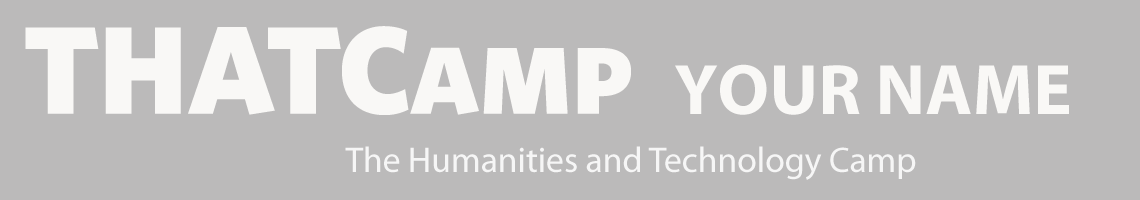
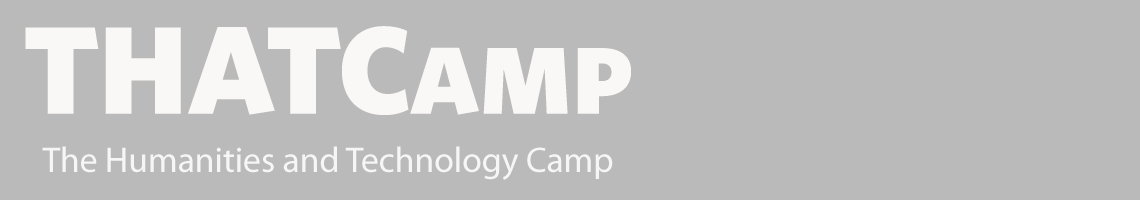
Update theme THATCamp Base for release

Changed region(s): [[0.0307, 0.72, 0.7982, 0.9], [0.5833, 0.3, 0.9518, 0.57]]

diff --git a/wp-content/themes/thatcamp-base/style.css b/wp-content/themes/thatcamp-base/style.css
@@ -3,7 +3,7 @@ Theme Name: THATCamp Base
 Theme Date: 12/06/2012
 Version: 1.0
 Theme URI: http://thatcamp.org
-Description: THATCamp Base subsite theme
+Description: THATCamp Base is a mobile-optimized theme for THATCamp subsites.
 Author: Tammie Lister
 Author URI: www.thelogicalbinary.com
 Tags: buddypress

diff --git a/wp-content/themes/thatcamp-base/functions.php b/wp-content/themes/thatcamp-base/functions.php
@@ -5,7 +5,28 @@
  * @package thatcampbase
  * @since thatcampbase 1.0
  */
+ 
+ /* thatcampbase default header */
+ 
+define('thatcamp_base_dir', get_bloginfo('stylesheet_directory'));
+define( 'HEADER_IMAGE', thatcamp_base_dir . '/assets/images/default-header.png' );
+
+function thatcamp_base_default_header() {
+
+           register_default_headers( array(
+		'thatcamp-default' => array(
+			'url' => thatcamp_base_dir . '/assets/images/default-header.png',
+			'thumbnail_url' => thatcamp_base_dir . '/assets/images/default-header-thumbnail.png',
+			/* translators: header image description */
+			'description' => __( 'THATCamp Default Header', 'thatcamp' )
+		)		
+	) );
+}
+
+add_action( 'after_setup_theme', 'thatcamp_base_default_header' );
+ 
 /* thatcampbase setup functions */
+
 if ( ! isset( $content_width ) ) {
 	$content_width = 640;
 }

diff --git a/wp-content/themes/thatcamp-base/template-people.php b/wp-content/themes/thatcamp-base/template-people.php
@@ -1,11 +1,11 @@
 <?php
 /**
- * People
+ * Campers
  *
  * @package thatcampbase
  * @since thatcampbase 1.0
  *
- * Template Name: People
+ * Template Name: Campers
  */
 ?>
 <?php get_header(); ?>
@@ -13,7 +13,7 @@
 	<div id="content">
 		<div id="people-view" role="main">
                 <header class="post-header">
-                    <h1 class="post-title"><?php _e( 'Attendees', 'thatcampbase' ); ?></h1>
+                    <h1 class="post-title"><?php the_title(); ?></h1>
                 </header>
             
 		<?php

diff --git a/wp-content/themes/thatcamp-base/header.php b/wp-content/themes/thatcamp-base/header.php
@@ -57,7 +57,7 @@
 						'container' => ''
 					)); ?>
 				</nav>
-				<nav id="show-menu"><i class="icon-reorder"></i></nav>
+				<nav id="show-menu"><i class="icon-reorder"></i><?php _e( 'Menu', 'thatcampbase' ); ?></nav>
 				<div id="responsive-menu">
 					<nav id="responsive-nav" role="navigation">
 						<h3 class="assistive-text"><?php _e( 'Menu', 'blogilates' ); ?></h3>

diff --git a/wp-content/themes/thatcamp-base/functions/custom-header.php b/wp-content/themes/thatcamp-base/functions/custom-header.php
@@ -19,6 +19,7 @@
  * @since thatcampbase (1.0)
  */
 
+
 if ( ! function_exists( 'thatcampbase_custom_header_setup' ) ) :
 function thatcampbase_custom_header_setup() {
 	$args = array(

diff --git a/wp-content/themes/thatcamp-base/author.php b/wp-content/themes/thatcamp-base/author.php
@@ -1,6 +1,6 @@
 <?php
 /**
- * Author page
+ * Profile page
  *
  * @package thatcampbase
  * @since thatcampbase 1.0
